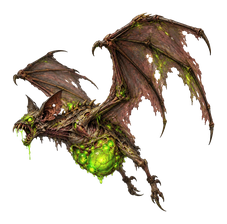
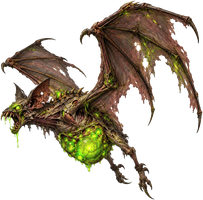
Remove the character rims and the P1/P2 name tags over the heroes
Characters keep their true colours (the double-darkening fix stays).

Claude-Session: https://claude.ai/code/session_01DbbAxgCR2CT7iqKnVBrHPT

diff --git a/coop-platformer/tools/sprites.py b/coop-platformer/tools/sprites.py
@@ -11,7 +11,7 @@ import json
 import os
 
 import numpy as np
-from PIL import Image, ImageDraw, ImageFilter, ImageOps
+from PIL import Image, ImageDraw, ImageFilter
 
 from bgtools import make_seamless, white_to_alpha
 
@@ -115,11 +115,6 @@ ENEMIES = {
 }
 
 
-# Clear margin around monster pictures: room for the rim the game draws around
-# them (Enemy.ART_BORDER must match).
-ENEMY_BORDER = 12
-
-
 def build_enemies():
     for name, (source, height) in ENEMIES.items():
         path = os.path.join(SRC, source)
@@ -127,7 +122,7 @@ def build_enemies():
             continue
         img, _ = crop(remove_background(Image.open(path)))
         img, _ = scaled(img, height)
-        save(ImageOps.expand(img, ENEMY_BORDER, (0, 0, 0, 0)), name)
+        save(img, name)
 
 
 # ---------------------------------------------------------------- heroes
